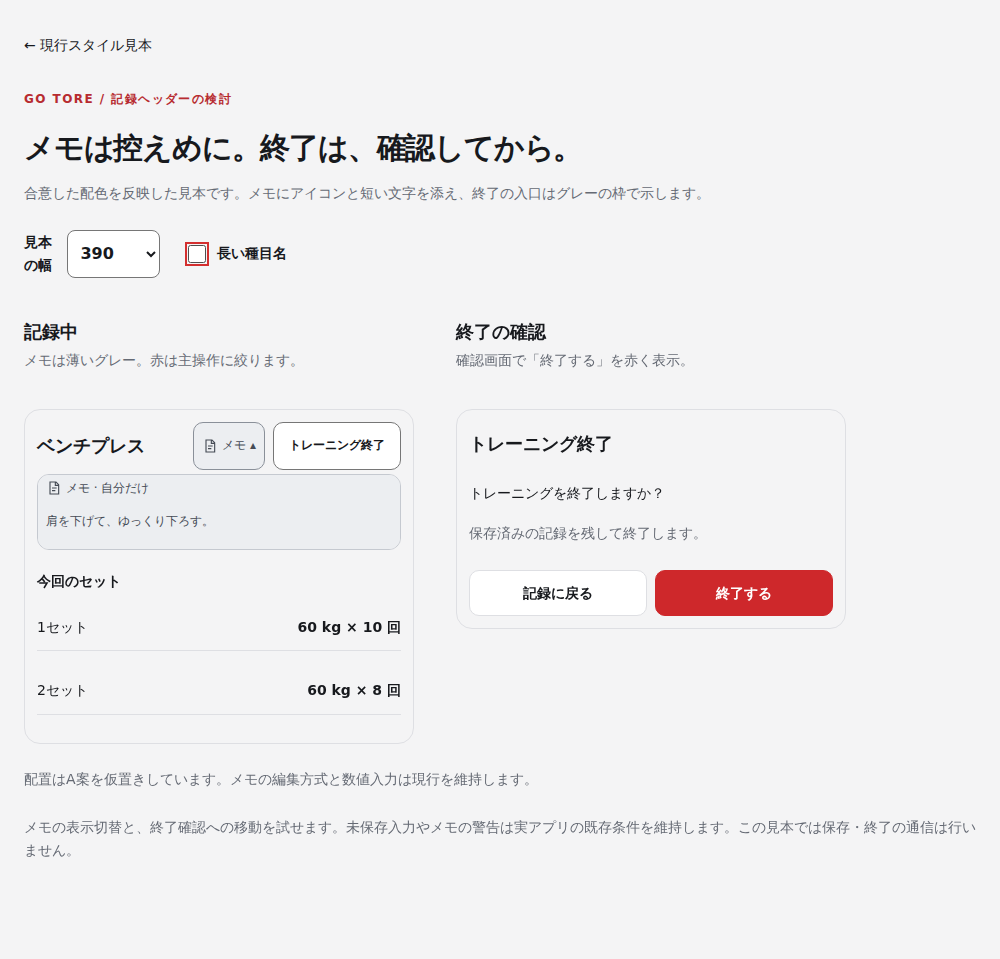
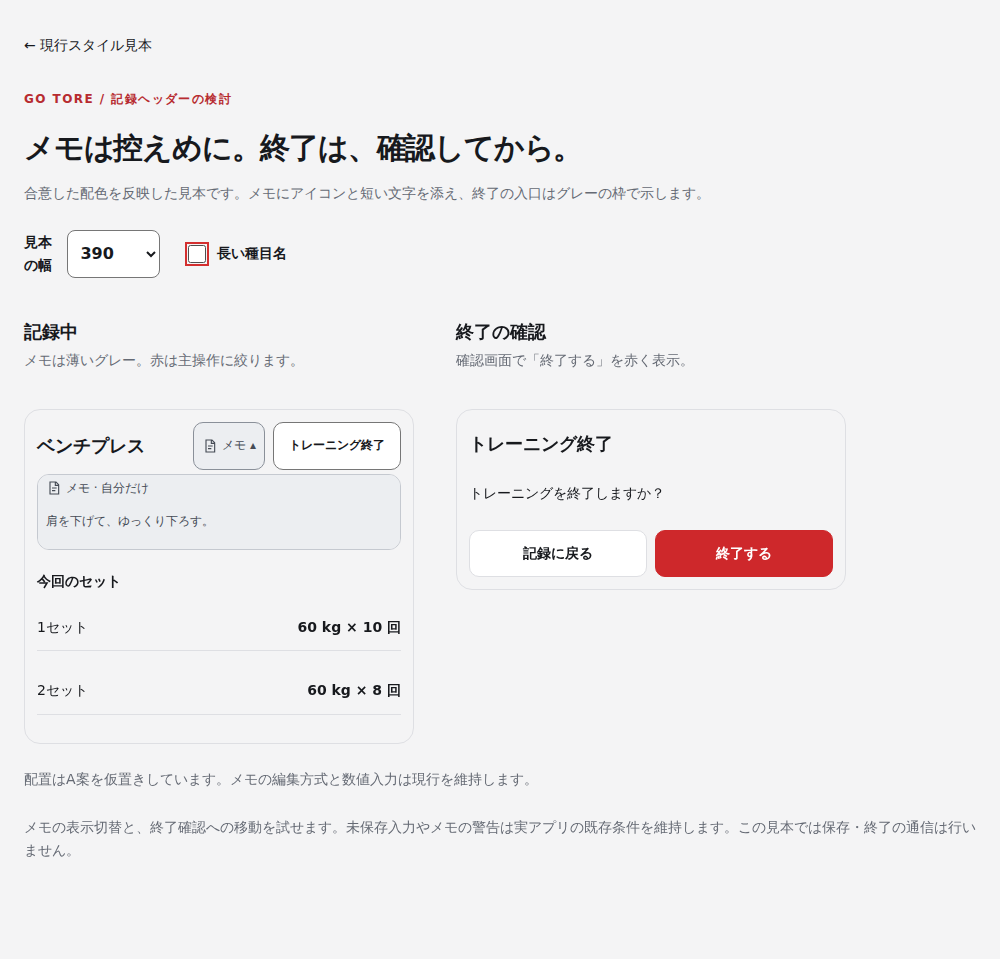
docs: 終了確認の不要な補足文を削除

Changed region(s): [[0.465, 0.5443, 0.837, 0.6653]]

diff --git a/docs/styles/header-selected.html b/docs/styles/header-selected.html
@@ -1,1 +1,1 @@
-<!doctype html><html lang="ja" data-theme="light"><head><meta charset="utf-8"><meta name="viewport" content="width=device-width,initial-scale=1"><title>メモと終了の配置案</title><link rel="stylesheet" href="current/globals.css"><link rel="stylesheet" href="current/v2.css"><link rel="stylesheet" href="header-options.css"><link rel="stylesheet" href="header-selected.css"></head><body><main><a href="index.html">← 現行スタイル見本</a><p class="kicker">GO TORE / 記録ヘッダーの検討</p><h1>メモは控えめに。終了は、確認してから。</h1><p class="intro">合意した配色を反映した見本です。メモにアイコンと短い文字を添え、終了の入口はグレーの枠で示します。</p><div class="controls"><label>見本の幅 <select id="width"><option>390</option><option>320</option><option>430</option></select></label><label><input type="checkbox" id="long">長い種目名</label></div><div class="examples"><article><h2>記録中</h2><p class="description">メモは薄いグレー。赤は主操作に絞ります。</p><div class="v2-app specimen a selected"><div class="recording-view"><section class="session-screen entering-sets"><div class="section-heading recording-header"><h1><button class="exercise-information">ベンチプレス</button></h1><button class="memo-toggle" aria-expanded="true" aria-pressed="true" aria-controls="memo-a"><svg viewBox="0 0 24 24" width="16" height="16" fill="none" stroke="currentColor" stroke-width="1.7" aria-hidden="true"><path d="M6 3h9l4 4v14H6zM14 3v5h5M9 12h7M9 16h5"/></svg><span>メモ</span><span class="chevron" aria-hidden="true">▴</span></button><button class="secondary finish-training">トレーニング終了</button></div><div class="recording-memos" id="memo-a"><span class="memo-caption"><svg viewBox="0 0 24 24" width="16" height="16" fill="none" stroke="currentColor" stroke-width="1.7" aria-hidden="true"><path d="M6 3h9l4 4v14H6zM14 3v5h5M9 12h7M9 16h5"/></svg> メモ · 自分だけ</span><div class="inline-memo"><button class="memo-text" aria-label="種目メモを編集">肩を下げて、ゆっくり下ろす。</button></div></div><div class="sets"><h3>今回のセット</h3><p><span>1セット</span><strong>60 kg × 10 回</strong></p><p><span>2セット</span><strong>60 kg × 8 回</strong></p></div></section></div></div></article><article><h2>終了の確認</h2><p class="description">確認画面で「終了する」を赤く表示。</p><div class="v2-app specimen confirm"><h3>トレーニング終了</h3><p>トレーニングを終了しますか？</p><p class="muted">保存済みの記録を残して終了します。</p><div class="confirm-actions"><button class="secondary" id="back">記録に戻る</button><button class="primary" id="confirm">終了する</button></div></div></article></div><p class="foot">配置はA案を仮置きしています。メモの編集方式と数値入力は現行を維持します。</p><p class="foot">メモの表示切替と、終了確認への移動を試せます。未保存入力やメモの警告は実アプリの既存条件を維持します。この見本では保存・終了の通信は行いません。</p><output id="status" role="status"></output></main><script src="header-selected.js"></script></body></html>
+<!doctype html><html lang="ja" data-theme="light"><head><meta charset="utf-8"><meta name="viewport" content="width=device-width,initial-scale=1"><title>メモと終了の配置案</title><link rel="stylesheet" href="current/globals.css"><link rel="stylesheet" href="current/v2.css"><link rel="stylesheet" href="header-options.css"><link rel="stylesheet" href="header-selected.css"></head><body><main><a href="index.html">← 現行スタイル見本</a><p class="kicker">GO TORE / 記録ヘッダーの検討</p><h1>メモは控えめに。終了は、確認してから。</h1><p class="intro">合意した配色を反映した見本です。メモにアイコンと短い文字を添え、終了の入口はグレーの枠で示します。</p><div class="controls"><label>見本の幅 <select id="width"><option>390</option><option>320</option><option>430</option></select></label><label><input type="checkbox" id="long">長い種目名</label></div><div class="examples"><article><h2>記録中</h2><p class="description">メモは薄いグレー。赤は主操作に絞ります。</p><div class="v2-app specimen a selected"><div class="recording-view"><section class="session-screen entering-sets"><div class="section-heading recording-header"><h1><button class="exercise-information">ベンチプレス</button></h1><button class="memo-toggle" aria-expanded="true" aria-pressed="true" aria-controls="memo-a"><svg viewBox="0 0 24 24" width="16" height="16" fill="none" stroke="currentColor" stroke-width="1.7" aria-hidden="true"><path d="M6 3h9l4 4v14H6zM14 3v5h5M9 12h7M9 16h5"/></svg><span>メモ</span><span class="chevron" aria-hidden="true">▴</span></button><button class="secondary finish-training">トレーニング終了</button></div><div class="recording-memos" id="memo-a"><span class="memo-caption"><svg viewBox="0 0 24 24" width="16" height="16" fill="none" stroke="currentColor" stroke-width="1.7" aria-hidden="true"><path d="M6 3h9l4 4v14H6zM14 3v5h5M9 12h7M9 16h5"/></svg> メモ · 自分だけ</span><div class="inline-memo"><button class="memo-text" aria-label="種目メモを編集">肩を下げて、ゆっくり下ろす。</button></div></div><div class="sets"><h3>今回のセット</h3><p><span>1セット</span><strong>60 kg × 10 回</strong></p><p><span>2セット</span><strong>60 kg × 8 回</strong></p></div></section></div></div></article><article><h2>終了の確認</h2><p class="description">確認画面で「終了する」を赤く表示。</p><div class="v2-app specimen confirm"><h3>トレーニング終了</h3><p>トレーニングを終了しますか？</p><div class="confirm-actions"><button class="secondary" id="back">記録に戻る</button><button class="primary" id="confirm">終了する</button></div></div></article></div><p class="foot">配置はA案を仮置きしています。メモの編集方式と数値入力は現行を維持します。</p><p class="foot">メモの表示切替と、終了確認への移動を試せます。未保存入力やメモの警告は実アプリの既存条件を維持します。この見本では保存・終了の通信は行いません。</p><output id="status" role="status"></output></main><script src="header-selected.js"></script></body></html>

diff --git a/progress.md b/progress.md
@@ -2490,3 +2490,9 @@
 - 影響範囲・関連ファイル: docs/styles/header-selected.*、入口・資料、docs/design-system.md。アプリ変更なし。既存の編集・入力・保存保護は維持する。
 - 検証: Chromium320/390/430/1000px、長い種目名・メモ開閉・JSエラーなし・横はみ出しなしを確認し画像を目視確認。git diff --check成功。独立見本のためアプリの先行テスト・make checkは未実施。
 - 未解決事項・次のアクション: 実画面への適用、暗色・文字拡大・キーボードを含む確認は未実施。PR #191で具体化した見本を共有する。
+
+## 2026-09-21 終了確認の補足文を削除（#186）
+- 変更内容・目的: ユーザー指定で見本の「保存済みの記録を残して終了します。」を削除。終了確認を短くした。
+- 影響範囲・関連ファイル: docs/styles/header-selected.html・pngのみ。アプリの挙動変更なし。
+- 検証: Chromium4幅・長い種目名・メモ開閉の既存確認が成功し、画像を更新。git diff --check成功。文言のみのため先行テスト追加・make checkは対象外。
+- 未解決事項・次のアクション: PR #191の見本を更新。実アプリへの適用は引き続き未実施。
